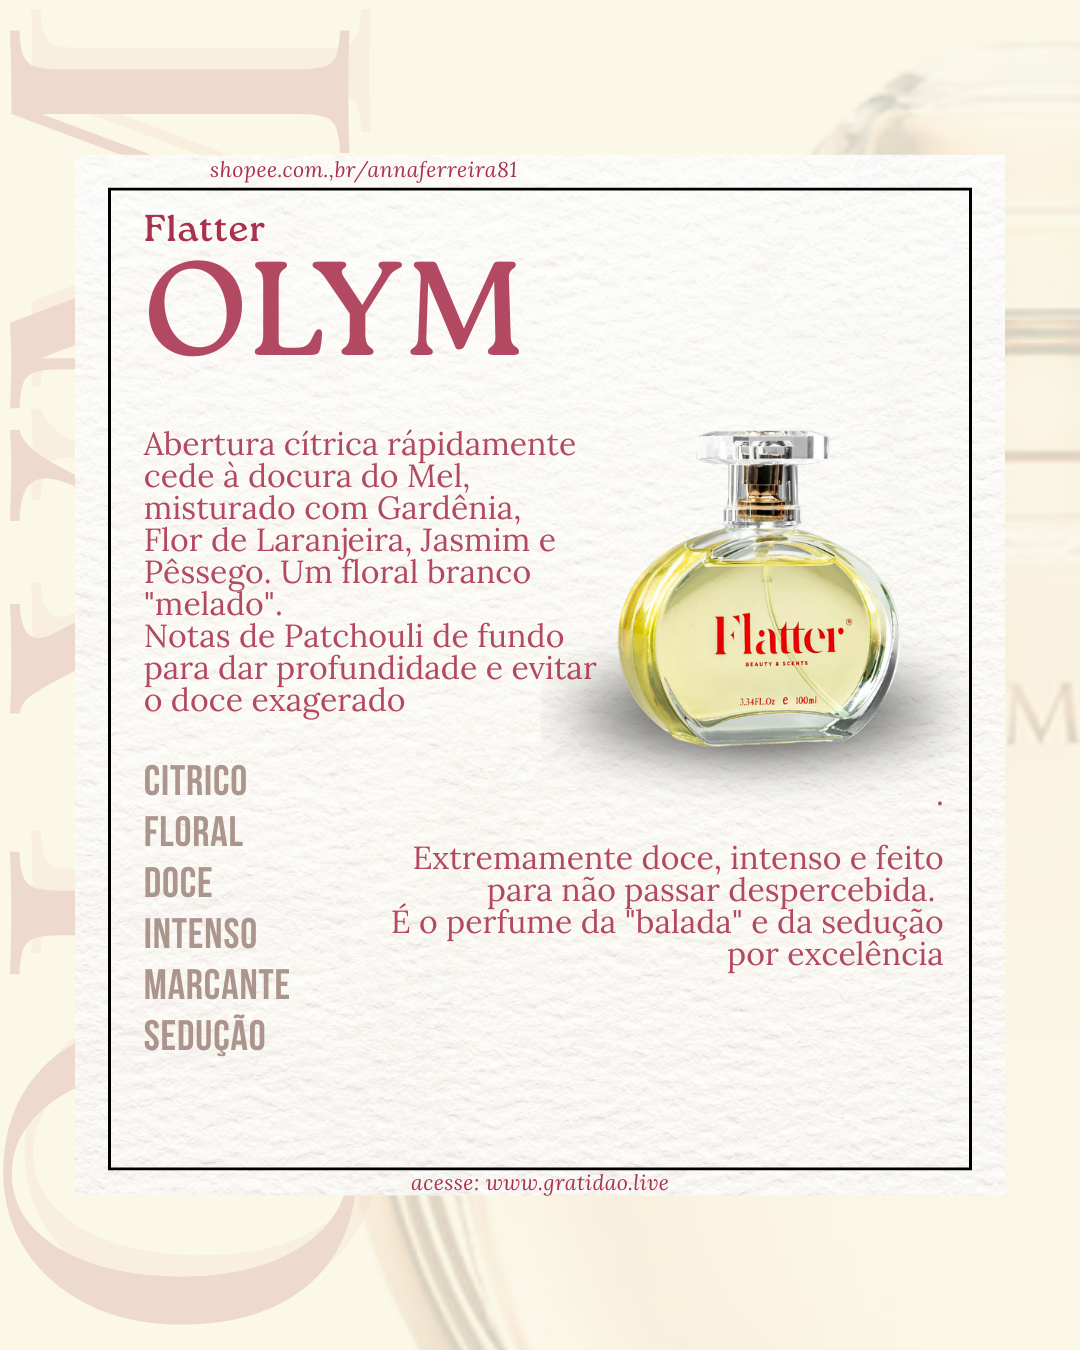
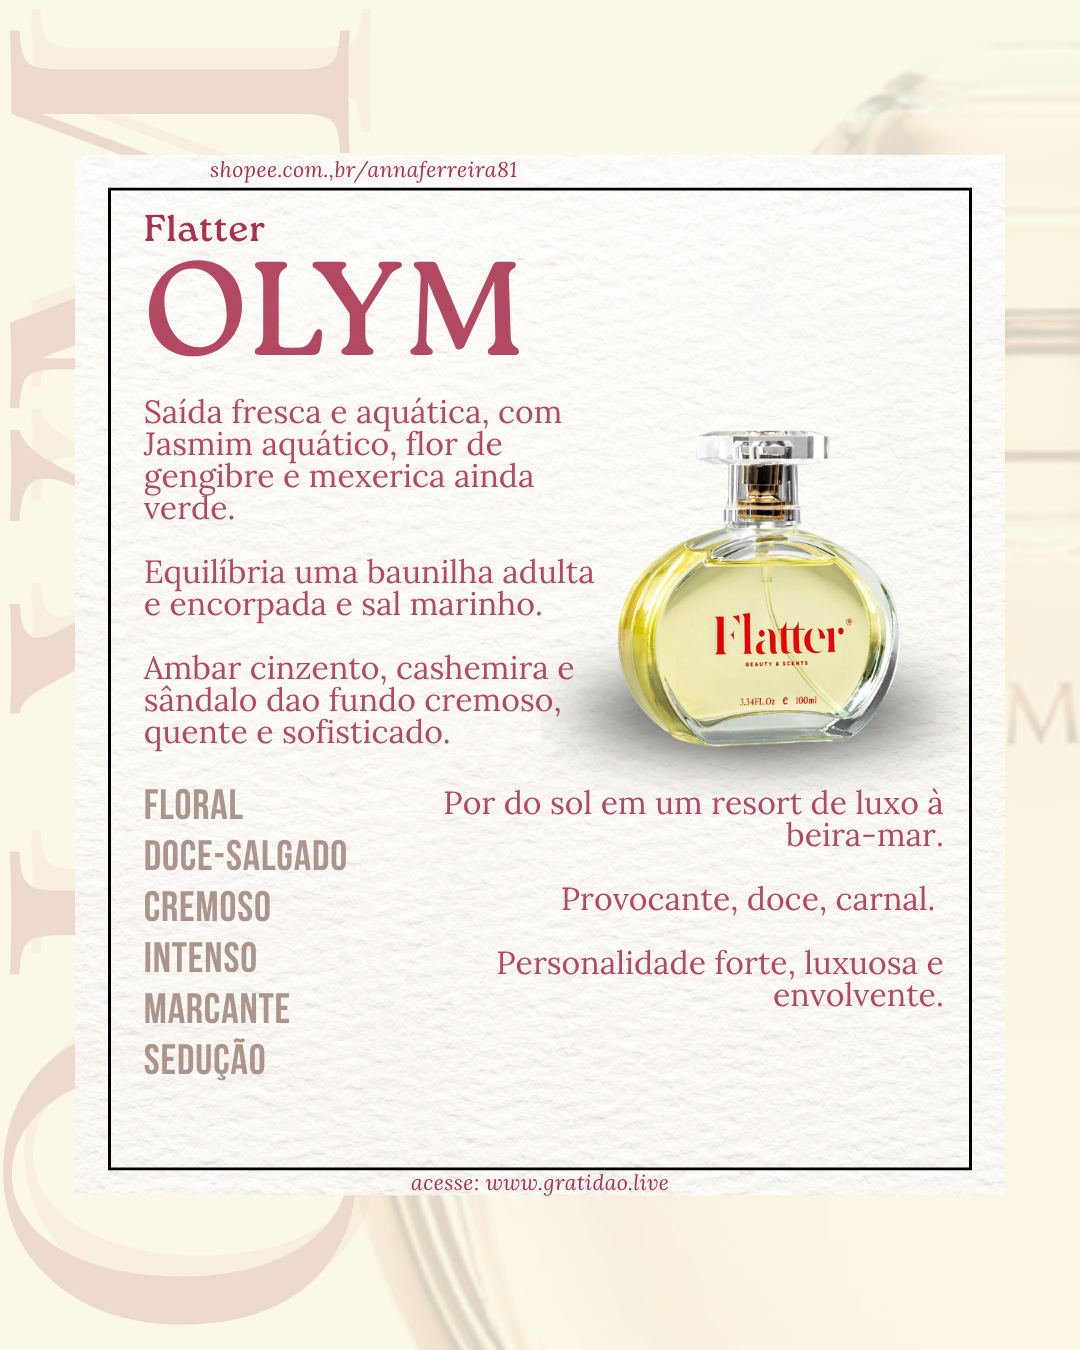
revisao olym, vip rose, inclusao illusion

Changed region(s): [[0.1222, 0.28, 0.55, 0.8089], [0.3667, 0.5911, 0.8861, 0.7467]]

diff --git a/_posts/202603-fichas-flatter/2026-03-13-031-illusion.md b/_posts/202603-fichas-flatter/2026-03-13-031-illusion.md
@@ -1,0 +1,41 @@
+---
+title:  "Illusion"
+metadate: "hide"
+categories: [ Flatter, PerfumesFemininos ]
+image: "/assets/images/flatter/fichas_flatter_26-femininos/152.png"
+visit: "https://shopee.com.br/annaferreira81"
+---
+Illusion - Perfume Feminino Flatter
+
+![Capa Perfume Illusion](/assets/images/flatter/fichas_flatter_26-femininos/151.png "Illusion")
+![Ficha Perfume Illusion](/assets/images/flatter/fichas_flatter_26-femininos/153.png "Illusion")
+![Resenha Perfume Illusion](/assets/images/flatter/fichas_flatter_26-femininos/154.png "Illusion")
+![Ficha 1:1 Perfume Illusion](/assets/images/flatter/fichas_flatter_26-femininos/155.png "Illusion")
+
+Descrição:
+
+Principais Características e Notas:
+
+- Família Olfativa: Floral | Oriental
+
+- Notas de Topo: Pera, Bergamota
+
+- Notas de Corpo: Musgo, Jasmim, Neroli
+
+- Notas de Fundo: Baunilha, Âmbar cinza, Almíscar
+
+Abre frutado, suculento e levemente cítrico. Segue floral branco, com toque terroso bem presente.
+Base extremamente quente, cremosa e resinosa. A baunilha aqui é intensa, licorosa e muito presente.
+
+Floral branco frutado, baunilha, musgo. Mas nada que lembre garotinha. 
+São notas maduras, que evocam jogo de luxo, poder e sedução.
+
+
+{% include flatter_cosmeticos.md %}
+
+
+{% include contato_anaferreira.md %}
+
+
+--------
+www.gratidao.live 

diff --git a/_posts/202603-fichas-flatter/2026-03-13-028-olym.md b/_posts/202603-fichas-flatter/2026-03-13-028-olym.md
@@ -24,14 +24,12 @@ Principais Características e Notas:
 
 - Notas de Fundo: Cashemira, Âmbar cinza, Sândalo
 
-Abertura cítrica rápidamente cede à docura do Mel, misturado com Gardênia, 
-Flor de Laranjeira, Jasmim e Pêssego. Um floral branco "melado".
-Notas de Patchouli de fundo para dar profundidade e evitar o doce exagerado.
+Saída fresca e aquática, com Jasmim aquático, flor de gengibre e mexerica ainda verde.
+Equilíbria uma baunilha adulta e encorpada e sal marinho.
+Ambar cinzento, cashemira e sândalo dao fundo cremoso, quente e sofisticado.
 
-Extremamente doce, intenso e feito para não passar despercebida. 
-É o perfume da "balada" e da sedução por excelência
-
-
+Por do sol em um resort de luxo à beira-mar.
+Provocante, doce, carnal. Personalidade forte, luxuosa e envolvente.
 
 {% include flatter_cosmeticos.md %}
 

diff --git a/_includes/flatter_cosmeticos.md b/_includes/flatter_cosmeticos.md
@@ -1,4 +1,5 @@
 --------
+
 Sobre a Flatter Cosméticos
 
 Um perfume não é apenas um cheiro. É a primeira impressão que deixamos e a última lembrança que fica.
@@ -10,6 +11,14 @@ Com mais de 14 anos de mercado é uma marca orgulhosamente brasileira, nascida n
 Produz perfumes para quem busca sofisticação, fixação e presença, mas também valoriza a inteligência financeira.
 Conta também com uma vasta linha de cuidados corporais!
 
-Você pode comprar ou saber mais aqui comigo. Ana Ferreira.
+
+--------
+
+Sobre mim
+
+
+Você pode comprar ou saber mais aqui comigo.
+
+Ana Ferreira. Revendedora Flatter Cosméticos a mais de 5 anos.
 
 Nós não vendemos apenas cosméticos; nós entregamos autoestima e cuidado diário.

diff --git a/_posts/202603-fichas-flatter/2026-03-13-018-vip-rose.md b/_posts/202603-fichas-flatter/2026-03-13-018-vip-rose.md
@@ -16,13 +16,13 @@ Descrição:
 
 Principais Características e Notas:
 
-- Família Olfativa: Oriental | Floral
+- Família Olfativa: Floral | Frutado
 
-- Notas de Topo: Amêndoa, Café, Bergamota | Limão
+- Notas de Topo: Champagne Rosé, Pimenta Rosa
 
-- Notas de Corpo: Flor de Laranjeira, Jasmin, Iris, Rosa, Tuberose
+- Notas de Corpo: Flor de Pessegueiro, Rosa
 
-- Notas de Fundo: Baunilha, Caramelo, Sandalo, Cedro, Âmbar, Cumaru | Cacau
+- Notas de Fundo: Almíscar, Queenswood
 
 Abertura de champagne rose e notas frutadas, evocando uma festa de luxo.
 Evolui para flor de pêssego trazendo uma delicadeza aveludada e toque levemente adocicado, 
